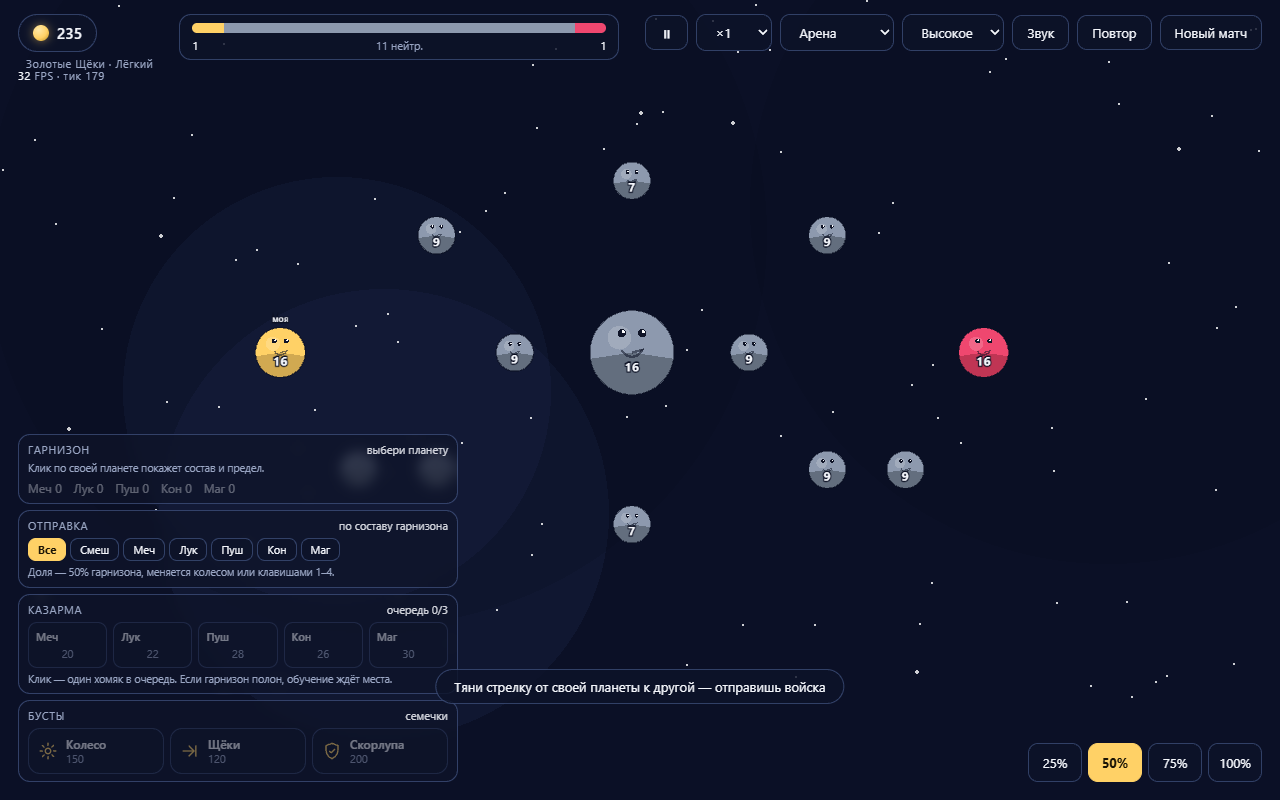
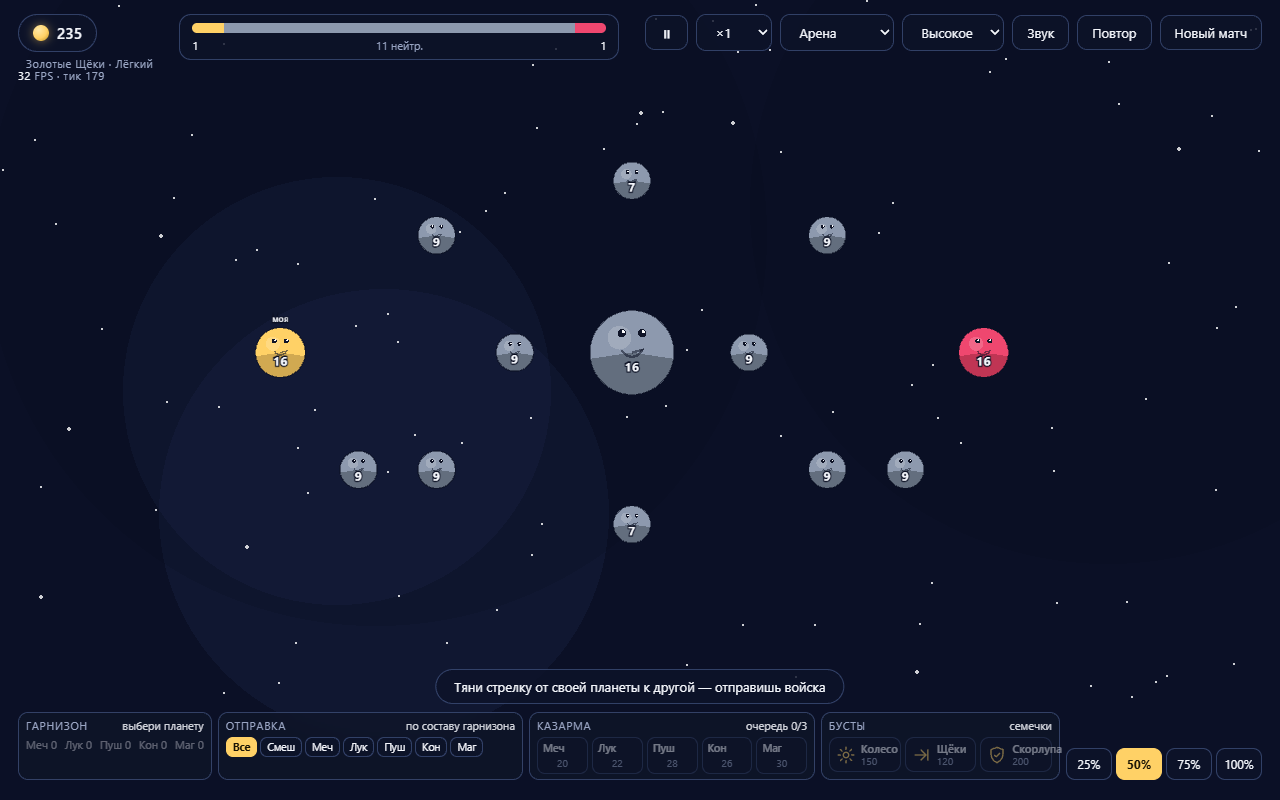
feat(client): нижняя панель одной строкой
Гарнизон, отправка, казарма, бусты и доли стоят в один ряд высотой ~60 px вместо четырёх рядов — поле больше не закрыто. Компактные размеры и подписи, у узких экранов сворачивается информационный блок гарнизона, дальше — горизонтальная прокрутка. 236 тестов.

diff --git a/apps/client/src/styles.css b/apps/client/src/styles.css
@@ -60,10 +60,7 @@ body {
   left: 18px;
   right: 18px;
   bottom: 18px;
-  display: flex;
-  align-items: flex-end;
-  justify-content: space-between;
-  gap: 16px;
+  display: block;
 }
 
 /* --- семечки --- */
@@ -203,23 +200,46 @@ body {
 /* --- нижняя панель: гарнизон, отправка, казарма, бусты --- */
 
 .bottom-left {
+  position: relative;
   display: flex;
-  flex-direction: column;
-  gap: 6px;
+  flex-direction: row;
   align-items: stretch;
-  width: min(440px, 46vw);
+  gap: 6px;
+  width: 100%;
+  overflow-x: auto;
+  padding-bottom: 2px;
   pointer-events: auto;
 }
 
 .panel {
   display: flex;
   flex-direction: column;
-  gap: 5px;
-  padding: 7px 9px;
-  border-radius: 12px;
-  background: rgba(14, 20, 40, 0.72);
+  gap: 4px;
+  flex: 0 0 auto;
+  padding: 5px 7px;
+  border-radius: 10px;
+  background: rgba(14, 20, 40, 0.78);
   border: 1px solid var(--panel-border);
   backdrop-filter: blur(6px);
+}
+
+.panel--garrison {
+  min-width: 165px;
+}
+
+.panel--send {
+  flex: 1 1 320px;
+  min-width: 285px;
+}
+
+.panel--barracks {
+  flex: 1 1 300px;
+  min-width: 265px;
+}
+
+.panel--boosts {
+  flex: 1 1 250px;
+  min-width: 225px;
 }
 
 .panel__title {
@@ -243,18 +263,17 @@ body {
 }
 
 .panel__hint {
-  font-size: 10.5px;
-  line-height: 1.3;
-  color: var(--muted);
+  display: none;
 }
 
 .composition__units {
   display: flex;
-  flex-wrap: wrap;
-  gap: 4px 12px;
-  font-size: 12px;
+  flex-wrap: nowrap;
+  gap: 8px;
+  font-size: 11px;
   color: var(--text);
   font-variant-numeric: tabular-nums;
+  white-space: nowrap;
 }
 
 .composition__unit--empty {
@@ -263,18 +282,18 @@ body {
 
 .composition__templates {
   display: flex;
-  flex-wrap: wrap;
-  gap: 4px;
+  flex-wrap: nowrap;
+  gap: 3px;
 }
 
 .chip {
-  padding: 3px 9px;
-  border-radius: 8px;
+  padding: 2px 6px;
+  border-radius: 7px;
   border: 1px solid var(--panel-border);
   background: var(--panel);
   color: var(--text);
   font: inherit;
-  font-size: 11px;
+  font-size: 10.5px;
   cursor: pointer;
 }
 
@@ -292,7 +311,7 @@ body {
 .training,
 .boosts {
   display: flex;
-  gap: 6px;
+  gap: 4px;
 }
 
 .train {
@@ -300,15 +319,15 @@ body {
   display: flex;
   flex-direction: column;
   align-items: stretch;
-  gap: 2px;
+  gap: 1px;
   flex: 1;
-  padding: 6px 7px;
-  border-radius: 9px;
+  padding: 3px 5px;
+  border-radius: 8px;
   border: 1px solid var(--panel-border);
   background: var(--panel);
   color: var(--text);
   font: inherit;
-  font-size: 11px;
+  font-size: 10.5px;
   cursor: pointer;
   transition: transform 0.08s ease, border-color 0.15s ease;
 }
@@ -327,6 +346,7 @@ body {
 
 .train__name {
   font-weight: 600;
+  font-size: 10.5px;
 }
 
 .train__badge {
@@ -340,13 +360,14 @@ body {
 
 .train__cost {
   color: var(--muted);
+  font-size: 10px;
   font-variant-numeric: tabular-nums;
 }
 
 .train__bar {
   display: block;
   width: 100%;
-  height: 3px;
+  height: 2px;
   border-radius: 2px;
   background: rgba(255, 255, 255, 0.12);
   overflow: hidden;
@@ -371,11 +392,11 @@ body {
 .boost {
   display: flex;
   align-items: center;
-  gap: 8px;
+  gap: 5px;
   flex: 1;
   min-width: 0;
-  padding: 8px 9px;
-  border-radius: 12px;
+  padding: 4px 6px;
+  border-radius: 9px;
   border: 1px solid var(--panel-border);
   background: var(--panel);
   color: var(--text);
@@ -413,25 +434,28 @@ body {
 }
 
 .boost__name {
-  font-size: 12px;
+  font-size: 11px;
   font-weight: 600;
   white-space: nowrap;
 }
 
 .boost__cost {
-  font-size: 11px;
+  font-size: 10px;
   color: var(--muted);
   font-variant-numeric: tabular-nums;
 }
 
 .toast {
-  align-self: flex-start;
+  position: absolute;
+  bottom: calc(100% + 6px);
+  left: 0;
   padding: 5px 10px;
   border-radius: 9px;
   background: rgba(255, 209, 102, 0.14);
   border: 1px solid rgba(255, 209, 102, 0.45);
   color: var(--text);
   font-size: 12px;
+  white-space: nowrap;
 }
 
 .toast--error {
@@ -439,9 +463,45 @@ body {
   border-color: rgba(255, 123, 92, 0.55);
 }
 
+@media (max-width: 1100px) {
+  /* На узком экране прячем информационный блок гарнизона: состав и так
+     виден в «Отправке», зато все кнопки остаются в одной строке. */
+  .panel--garrison {
+    display: none;
+  }
+
+  .panel--send {
+    flex-basis: 310px;
+    min-width: 310px;
+  }
+
+  .panel--barracks {
+    min-width: 210px;
+  }
+
+  .panel--boosts {
+    min-width: 225px;
+  }
+
+  .chip {
+    padding: 2px 5px;
+    font-size: 10px;
+  }
+
+  .ratio {
+    width: 36px;
+    font-size: 11px;
+  }
+
+  .boost__name {
+    font-size: 10.5px;
+  }
+}
+
 @media (max-width: 760px) {
   .bottom-left {
-    width: min(440px, 94vw);
+    width: 100%;
+    overflow-x: auto;
   }
 
   .hint {
@@ -453,19 +513,21 @@ body {
 
 .ratios {
   display: flex;
-  gap: 6px;
+  gap: 4px;
+  margin-left: auto;
+  align-self: flex-end;
   pointer-events: auto;
 }
 
 .ratio {
-  width: 54px;
-  padding: 10px 0;
-  border-radius: 10px;
+  width: 46px;
+  padding: 7px 0;
+  border-radius: 9px;
   border: 1px solid var(--panel-border);
   background: var(--panel);
   color: var(--text);
   font: inherit;
-  font-size: 13px;
+  font-size: 12px;
   font-variant-numeric: tabular-nums;
   cursor: pointer;
 }

diff --git a/apps/client/src/ui/GameHud.tsx b/apps/client/src/ui/GameHud.tsx
@@ -169,7 +169,7 @@ export function GameHud(props: GameHudProps) {
             )}
           </Show>
 
-          <div class="panel">
+          <div class="panel panel--garrison" title="Состав выбранной планеты и её предел">
             <div class="panel__title">
               <span>Гарнизон</span>
               <span class="panel__meta">
@@ -199,7 +199,7 @@ export function GameHud(props: GameHudProps) {
             </div>
           </div>
 
-          <div class="panel">
+          <div class="panel panel--send" title="Каким составом пойдёт следующий отряд">
             <div class="panel__title">
               <span>Отправка</span>
               <span class="panel__meta">{compositionHint()}</span>
@@ -224,7 +224,10 @@ export function GameHud(props: GameHudProps) {
             </div>
           </div>
 
-          <div class="panel">
+          <div
+            class="panel panel--barracks"
+            title="Клик — один хомяк в очередь. Если гарнизон полон, обучение ждёт места."
+          >
             <div class="panel__title">
               <span>Казарма</span>
               <span class="panel__meta">
@@ -265,7 +268,7 @@ export function GameHud(props: GameHudProps) {
             </div>
           </div>
 
-          <div class="panel">
+          <div class="panel panel--boosts" title="Стоимость бустов в семечках">
             <div class="panel__title">
               <span>Бусты</span>
               <span class="panel__meta">семечки</span>
@@ -300,21 +303,20 @@ export function GameHud(props: GameHudProps) {
               </Index>
             </div>
           </div>
-        </div>
-
-        <div class="ratios" role="group" aria-label="Доля отправки">
-          <For each={RATIOS}>
-            {(value) => (
-              <button
-                class="ratio"
-                classList={{ 'ratio--active': props.ratio() === value }}
-                type="button"
-                onClick={() => props.onRatio(value)}
-              >
-                {value}%
-              </button>
-            )}
-          </For>
+          <div class="ratios" role="group" aria-label="Доля отправки">
+            <For each={RATIOS}>
+              {(value) => (
+                <button
+                  class="ratio"
+                  classList={{ 'ratio--active': props.ratio() === value }}
+                  type="button"
+                  onClick={() => props.onRatio(value)}
+                >
+                  {value}%
+                </button>
+              )}
+            </For>
+          </div>
         </div>
       </div>
 

diff --git a/docs/PROGRESS.md b/docs/PROGRESS.md
@@ -87,7 +87,7 @@
 - [x] Бот тренирует род по клану (Золотые — мечники, Джунгарские — конница, Сирийские — лучники, Тёмные — маги); кланы в симуляторе дают 45–51%.
 - [x] Сложность бота в меню: лёгкий (без тренировки и бустов, только нейтралы, решения раз в секунду), обычный, сложный; по умолчанию лёгкий.
 - [x] Перехват на одной стрелке: встречные враждебные флоты уничтожаются полностью, до прибытия; свои и попутные проходят; вспышка и звук ровно в точке встречи.
-- [x] Понятная нижняя панель: блоки «Гарнизон», «Отправка», «Казарма», «Бусты»; вместимость, очередь 0/3, причина отказа и подтверждение действия.
+- [x] Понятная нижняя панель: блоки «Гарнизон», «Отправка», «Казарма», «Бусты» одной строкой снизу; вместимость, очередь 0/3, причина отказа и подтверждение действия.
 - [x] Разгрузка кадра: звёзды и частицы — по одной `Graphics`, WebGL, разрешение ≤1.5, на телефонах среднее качество, списки HUD через `Index`.
 - [ ] Анимация бойцов в бою и проверка 60 FPS при 500 визуальных бойцах.
 - [ ] Подстройка чисел после плейтеста и расширения ботов.
@@ -123,6 +123,7 @@
 - **2026-11-15** — эффект перехвата: событие тика с прогрессом по стрелке, вспышка двух цветов и звук удара ровно в точке встречи (события не входят в хэш). 230 тестов.
 - **2026-11-15** — «резиновая» стрелка: предпросмотр тянется за курсором сразу при нажатии ЛКМ, над планетой прилипает к ней и обводит пунктирным контуром; после отпускания остаётся обычный маршрут. 233 теста.
 - **2026-11-15** — нижняя панель: блоки с подписями и лимитами (гарнизон/предел, очередь 0/3, цена и время обучения), причины отказа в подсказках, тост-подтверждение; заодно разгружен кадр: звёзды и частицы рисуются одной `Graphics`, WebGL, разрешение ≤1.5, мобильное качество medium, списки HUD через `Index`. 236 тестов.
+- **2026-11-15** — панели собраны в одну строку снизу (гарнизон · отправка · казарма · бусты · доли), высота ~60 px вместо четырёх рядов; на узких экранах сворачивается информационный блок гарнизона, на совсем узких — горизонтальная прокрутка. 236 тестов.
 
 ## Открытые вопросы к человеку
 
